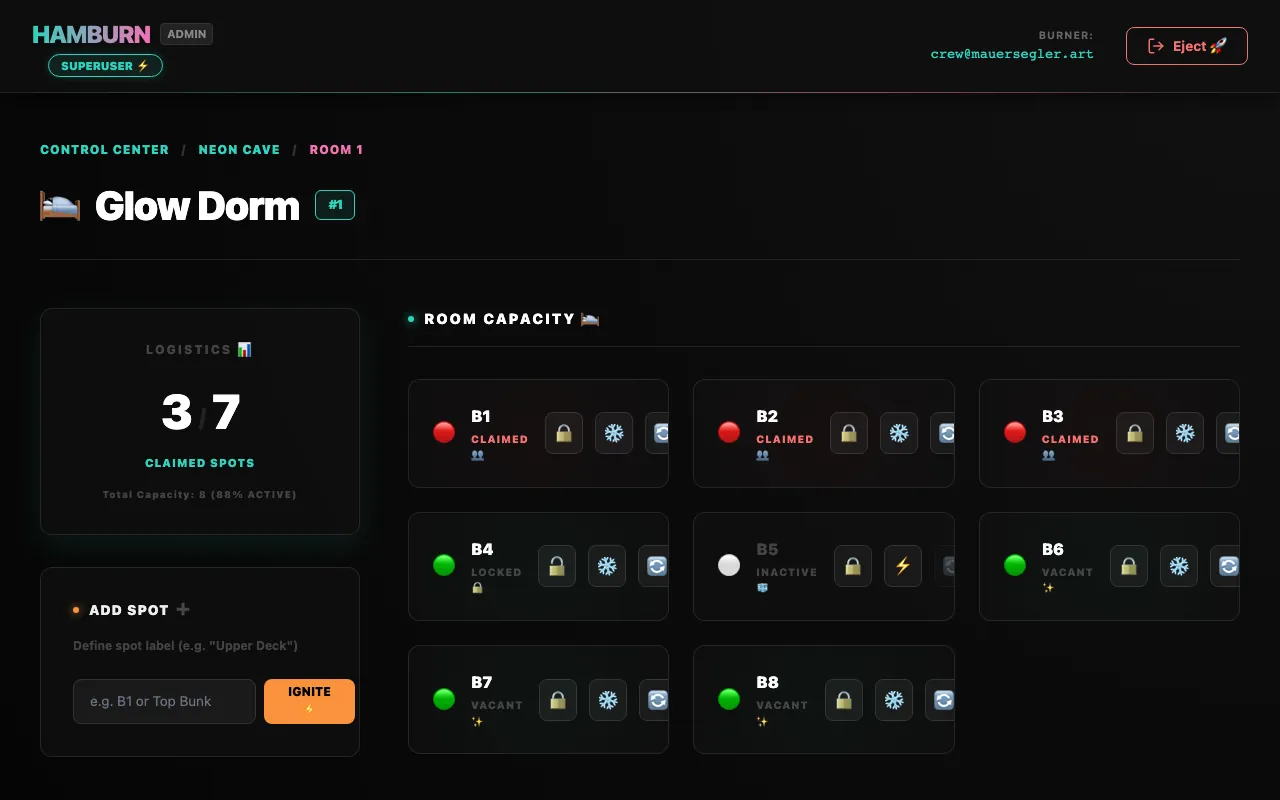
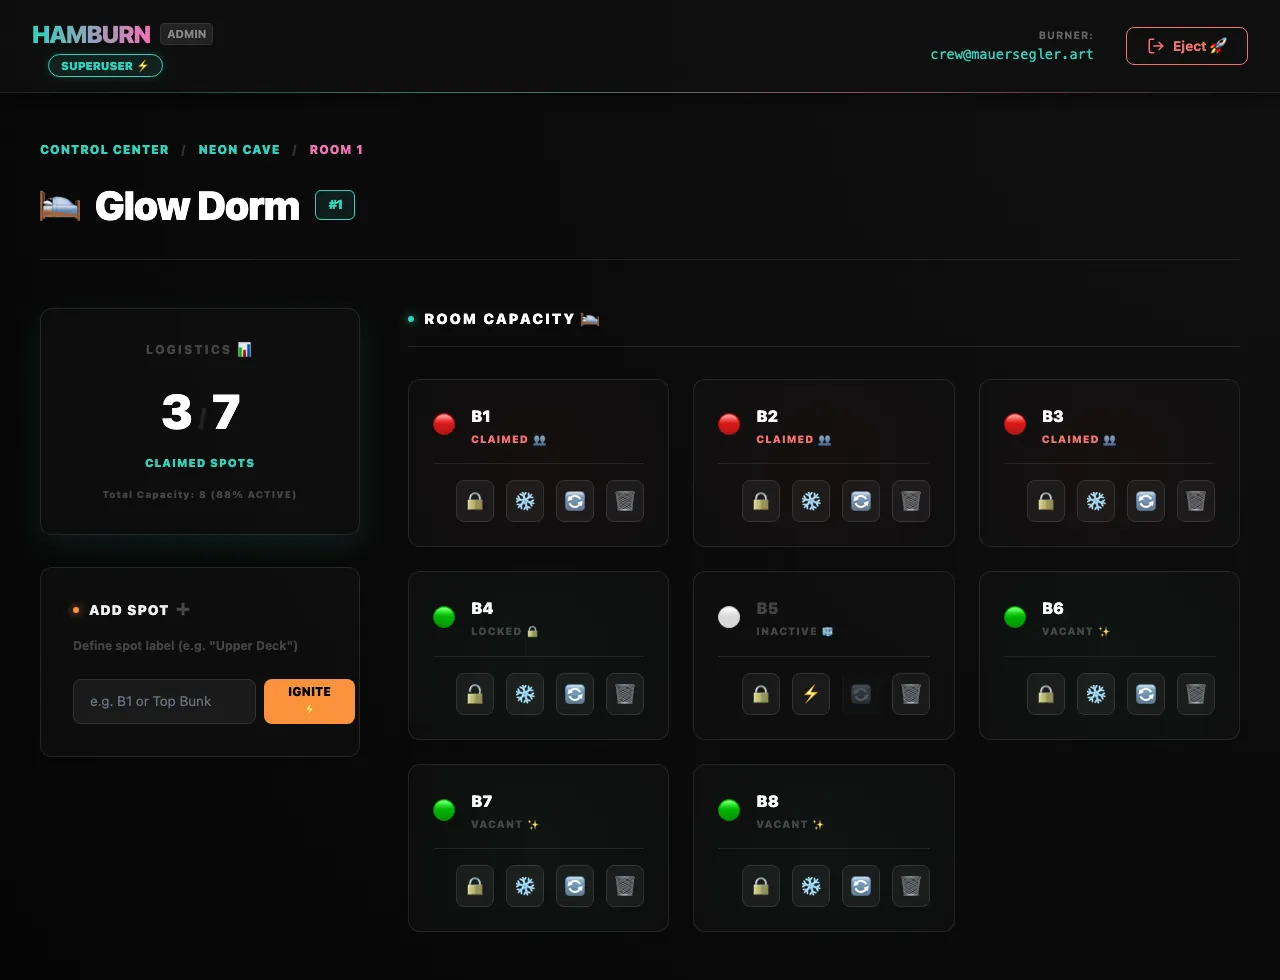
fix(admin): UI glitches found while writing the docs
- Template import warning: it said the import erases all bookings and
  orders. The import keeps the orders (ticket codes) and only releases the
  bookings on the deleted spots, and the text now says so.
- List view: RENAME ✏ and "Ignite New House" only prepared the editor
  sidebar, which exists in the map view only, so nothing visible happened.
  Both now switch to the map view and scroll the sidebar into view.
- Room page: at 1280 px the spot cards clipped their action buttons
  (🔄 half hidden, 🗑 invisible). The buttons now get their own row.
- Guest house page: the subtitle said "Choose a house" on the page where
  guests choose a room.

Docs: list-view workflow in admin/index.md and camp-layout.md, new
screenshots of the admin room page and the guest house page.

diff --git a/hamburn-cozynights/src/routes/admin/+page.svelte b/hamburn-cozynights/src/routes/admin/+page.svelte
@@ -8,6 +8,7 @@
 	import { enhance } from '$app/forms';
 	import { fade, fly, slide } from 'svelte/transition';
 	import { isoToBerlinLocal } from '$lib/time';
+	import { tick } from 'svelte';
 
 	export let data: PageData;
 
@@ -151,6 +152,17 @@
 		console.log(`[Dashboard] House selected: ${house.name}`);
 	}
 
+	// The editor sidebar belongs to the map view. List-view actions that open it
+	// switch to the map first, otherwise nothing visible would happen.
+	async function showEditorOnMap() {
+		if (showMap) return;
+		showMap = true;
+		await tick();
+		document
+			.querySelector('.details-sidebar')
+			?.scrollIntoView({ behavior: 'smooth', block: 'nearest' });
+	}
+
 	function handleRenameHouse(house: any) {
 		if (isBookingActive) {
 			alert(
@@ -161,6 +173,16 @@
 		selectedHouseId = house.id;
 		editingHouse = { id: house.id, x: house.x, y: house.y, name: house.name };
 		console.log(`[Dashboard] House selected for rename: ${house.name}`);
+		showEditorOnMap();
+	}
+
+	function handleIgniteFromList() {
+		if (isBookingActive) {
+			alert('🔒 LOCKDOWN ACTIVE: Switch to 🛠 STAGING to ignite new sanctuaries.');
+			return;
+		}
+		handleLocationSelected({ x: 500, y: 350 });
+		showEditorOnMap();
 	}
 
 	async function handleDeleteHouse(house: any) {
@@ -308,7 +330,7 @@
 	const handleImportTemplate: SubmitFunction = ({ cancel }) => {
 		if (
 			!confirm(
-				'☢ NUCLEAR WARNING ☢\n\nImporting a template will PERMANENTLY ERASE:\n- All current Houses\n- All current Rooms\n- All current Beds\n- ALL ACTIVE BOOKINGS AND ORDERS\n\nThis cannot be undone. Are you absolutely sure the playa is ready for a reset?'
+				'☢ NUCLEAR WARNING ☢\n\nImporting a template will PERMANENTLY ERASE:\n- All current Houses\n- All current Rooms\n- All current Beds and the bookings on them\n\nTicket codes are kept, so guests can book again afterwards.\n\nThis cannot be undone. Are you absolutely sure the playa is ready for a reset?'
 			)
 		) {
 			cancel();
@@ -669,10 +691,7 @@
 
 				<button
 					class="add-house-card"
-					on:click={() =>
-						isBookingActive
-							? alert('🔒 LOCKDOWN ACTIVE: Switch to 🛠 STAGING to ignite new sanctuaries.')
-							: handleLocationSelected({ x: 500, y: 350 })}
+					on:click={handleIgniteFromList}
 					class:disabled={isBookingActive}
 				>
 					<span class="plus">+</span>

diff --git a/hamburn-cozynights/src/routes/admin/room/[id]/+page.svelte b/hamburn-cozynights/src/routes/admin/room/[id]/+page.svelte
@@ -413,6 +413,7 @@
 		border-radius: 12px;
 		padding: 1.5rem;
 		display: flex;
+		flex-wrap: wrap;
 		align-items: center;
 		gap: 1rem;
 		transition: all 0.3s cubic-bezier(0.4, 0, 0.2, 1);
@@ -483,9 +484,15 @@
 		color: #444;
 	}
 
+	/* Own row below the label: the four buttons don't fit next to it in a card of
+	   the grid's minimum width, and the card would clip them. */
 	.bed-actions {
 		display: flex;
 		gap: 0.75rem;
+		flex-basis: 100%;
+		justify-content: flex-end;
+		padding-top: 1rem;
+		border-top: 1px solid #222;
 	}
 	.btn-icon {
 		background: #1a1a1a;

diff --git a/hamburn-cozynights/src/routes/house/[id]/+page.svelte b/hamburn-cozynights/src/routes/house/[id]/+page.svelte
@@ -17,7 +17,7 @@
 			{/if}
 		</div>
 		<h1>{data.house.name}</h1>
-		<p class="subtitle">Choose a house for your night</p>
+		<p class="subtitle">Choose a room for your night</p>
 	</header>
 
 	{#if data.userBedId}

diff --git a/docs/admin/camp-layout.md b/docs/admin/camp-layout.md
@@ -10,7 +10,7 @@ The camp is a simple tree: **houses** on the map contain **rooms**, and rooms co
 ### Create a house
 
 - **Map view:** click an empty place on the map. In the *GENERATE SANCTUARY* sidebar enter a name (**UNIT DESIGNATION**) and the **INITIAL CAPACITY (BEDS)**, then press <kbd>IGNITE HOUSE ✨</kbd>.
-- **List view:** click **Ignite New House**, then switch to <kbd>🗺 MAP VIEW</kbd> where the same sidebar is waiting. The house starts in the middle of the map; drag it into place afterwards.
+- **List view:** click **Ignite New House**. CozyNights switches to the map view and opens the same sidebar. The house starts in the middle of the map; drag it into place afterwards.
 
 CozyNights creates the house, a first room called **Main Module** (#1), and spots **B1 … Bn** for the capacity you entered. These first spots are **active right away**.
 
@@ -19,7 +19,7 @@ CozyNights creates the house, a first room called **Main Module** (#1), and spot
 | Task | How |
 | --- | --- |
 | Move | Drag the pin in map view. Saved when you let go. Houses keep a small distance from each other. |
-| Rename | Click the house in map view → change the name → <kbd>SYNC MODULE ✨</kbd>. |
+| Rename | Click the house in map view, or <kbd>RENAME ✏</kbd> on its card in list view → change the name → <kbd>SYNC MODULE ✨</kbd>. |
 | Delete | <kbd>VANISH FROM PLAYA 🌪</kbd> in the sidebar or <kbd>VANISH 🌪</kbd> on the card, then confirm. |
 
 > [!CAUTION] Deleting is final

diff --git a/docs/admin/index.md b/docs/admin/index.md
@@ -67,7 +67,7 @@ Every house as a card with its occupancy badge (*n spots free*, *Fully booked* o
 
 - Click a card to manage its rooms.
 - <kbd>VANISH 🌪</kbd> deletes the house after a confirmation.
-- <kbd>RENAME ✏</kbd> and the **Ignite New House** card prepare the editor sidebar, which appears once you switch to <kbd>🗺 MAP VIEW</kbd>. A new house starts in the middle of the map (500/350), ready to be dragged into place.
+- <kbd>RENAME ✏</kbd> and the **Ignite New House** card switch to the map view and open the editor sidebar there. A new house starts in the middle of the map (500/350), ready to be dragged into place.
 
 ## During Live Booking
 
